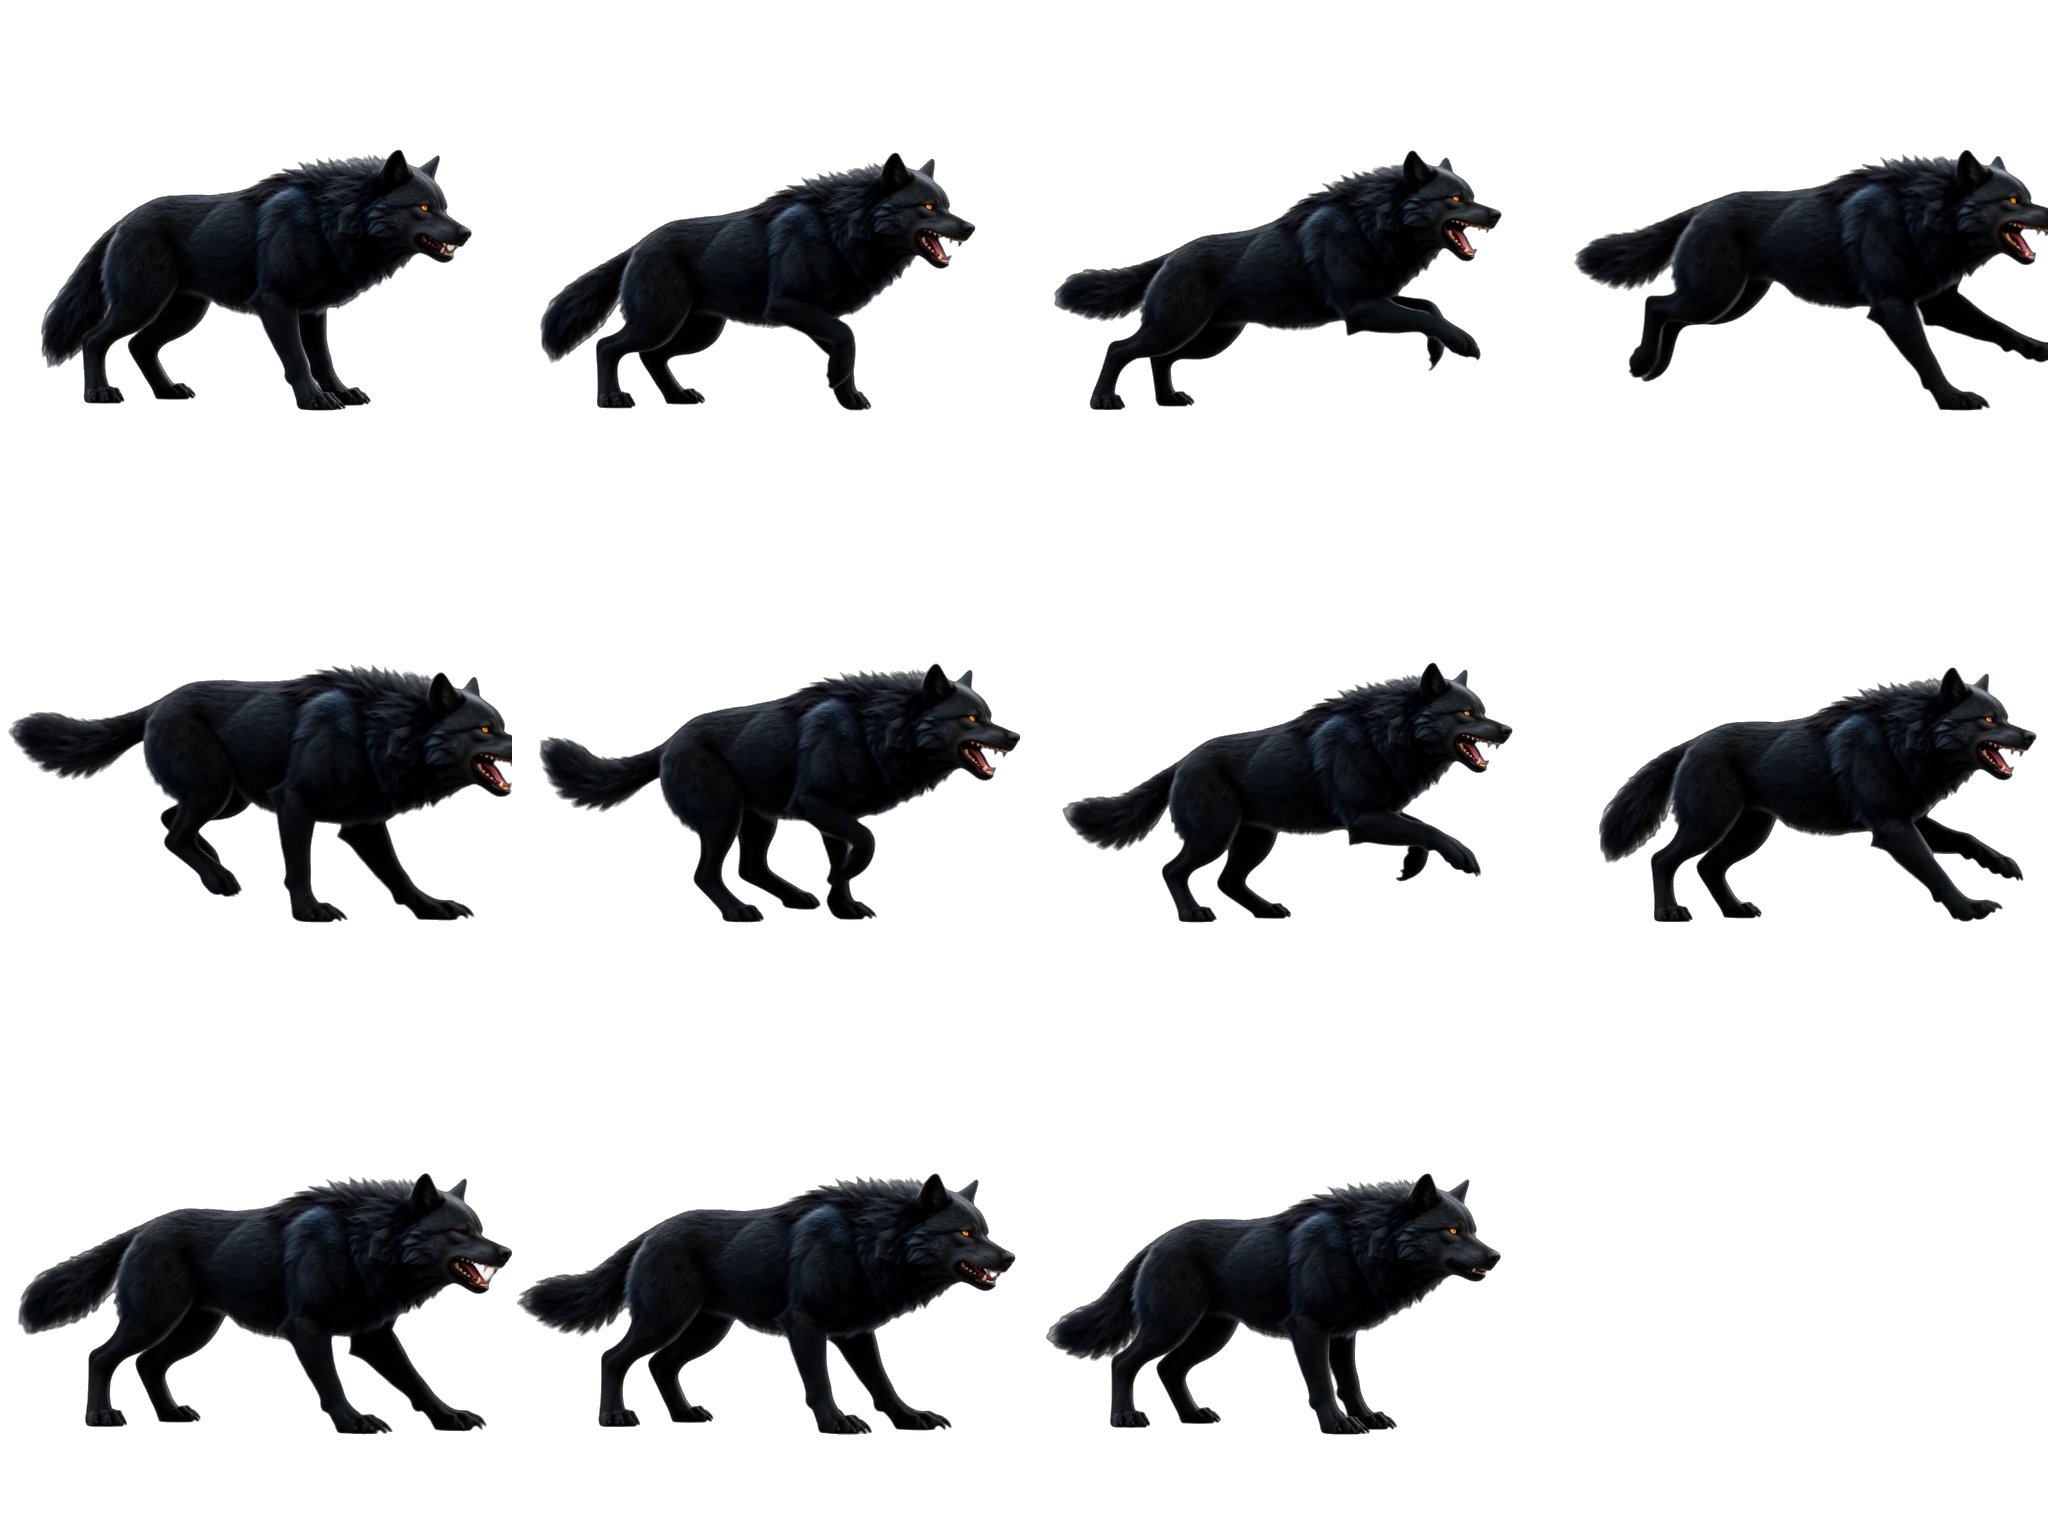
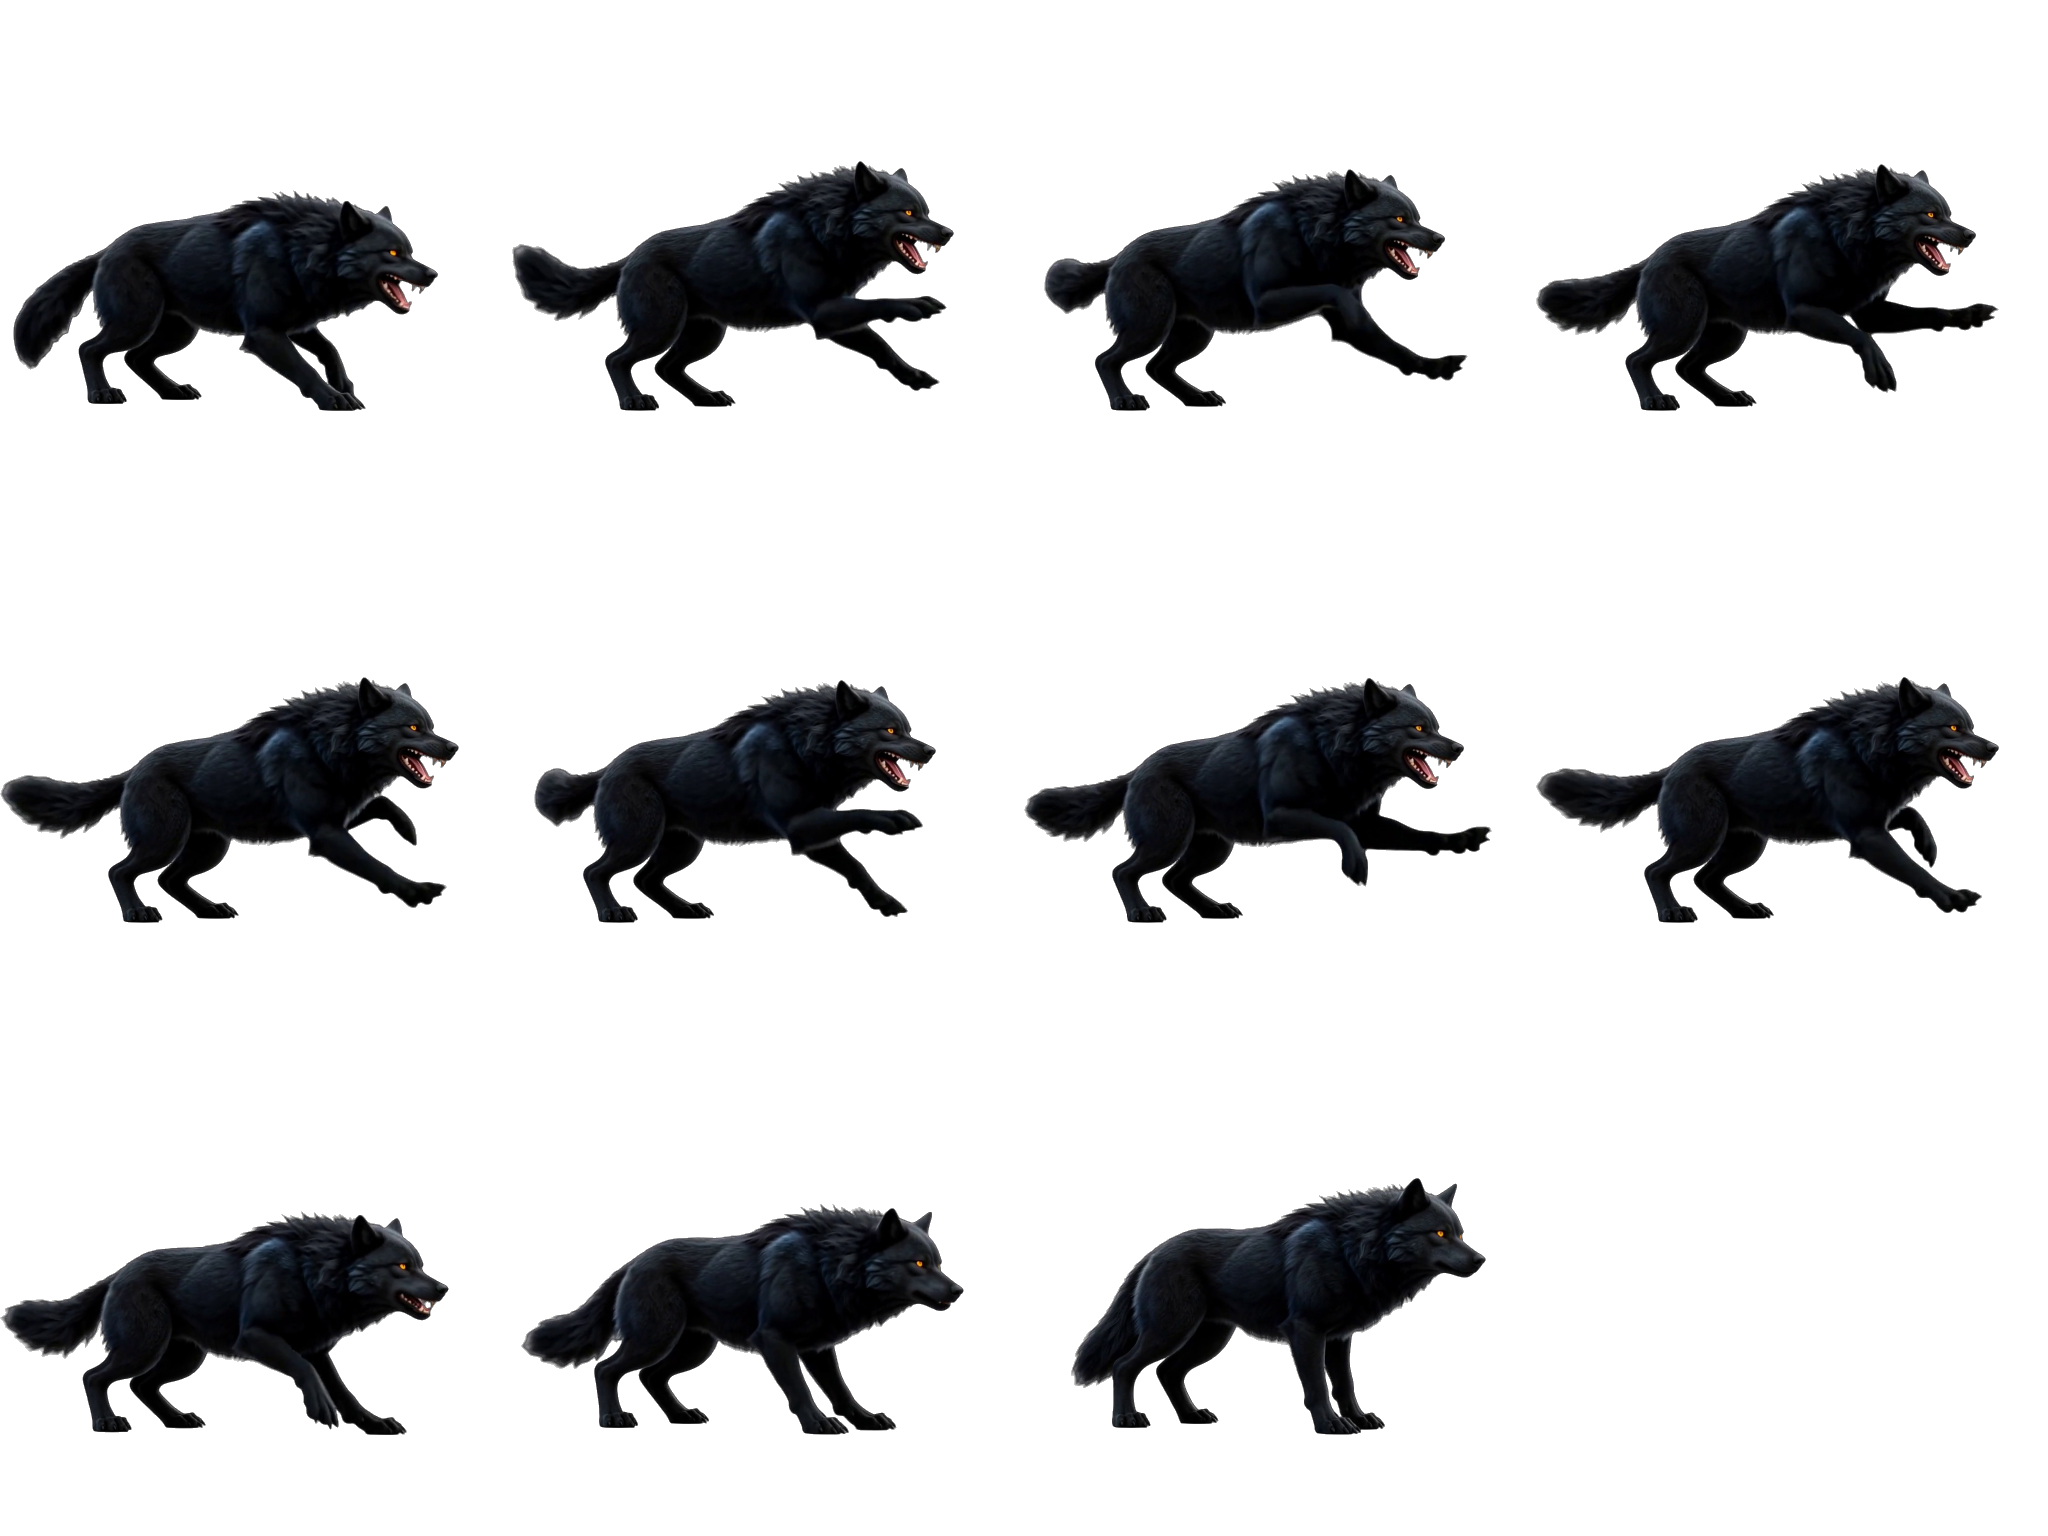
feat(enemy): 黑狼飞扑特效与命中调整——删残影加速度线条、命中改3秒致残
Condensed 4 adjacent commits from the original history:
- ca72dc79 feat(enemy): 黑狼飞扑特效与命中调整——删残影加速度线条、命中改3秒致残
- 7ab83c9e feat(enemy): 黑狼飞扑动画重制——强化前爪挥舞细节 + 游戏内时长调至约3秒
- fb3cbe67 feat(skills): 雷暴领域/贯穿雷枪图标 v2——FLUX.2 Dev + 紫水晶切割宝石背景 + 原风格主体（alpha剪影锁构图）+ 系列基准归一化
- 2e122143 docs(skill): 技能图标重出经验沉淀——Dev+alpha剪影锁原图主体/背景与主体分离描述/归一化后再交付/验收对照原图

diff --git a/src/entities/enemy-types.js b/src/entities/enemy-types.js
@@ -213,19 +213,20 @@ class BlackWolf extends Enemy {
                     this._endPounce();
                     return;
                 }
-                if (hitTarget.applyStun) {
-                    hitTarget.applyStun(this.config?.pounceStunMs ?? 2000);
+                // 命中不眩晕，改为 3 秒致残（减速 debuff）
+                if (hitTarget.applyCripple) {
+                    hitTarget.applyCripple(this.config?.pounceCrippleMs ?? 3000);
                     this._endPounce();
                     return;
                 }
             }
         }
 
-        // 飞扑残影
+        // 冲锋速度线条（色块链风格，参考 LightningBoltEffect；替代残影）
         this._pounceGhostTimer -= dt;
         if (this._pounceGhostTimer <= 0) {
-            this._spawnPounceGhost();
-            this._pounceGhostTimer = 60;
+            this._spawnSpeedLine();
+            this._pounceGhostTimer = 80;
         }
 
         this._pounceTimer -= dt;
@@ -354,24 +355,45 @@ class BlackWolf extends Enemy {
         return dist <= r + targetR;
     }
 
-    _spawnPounceGhost() {
-        const sprite = this._phaserSprite;
+    // 冲锋速度线条：狼身后沿反方向拖出短色块链（参考 LightningBoltEffect 的
+    // 圆块辉光风格——线条感强于纯粒子、柔于纯线条，折中方案）
+    _spawnSpeedLine() {
         const scene = window.__phaserScene;
-        if (!sprite || !scene) return;
-        const textureKey = this._getTextureKey();
-        if (!scene.textures.exists(textureKey)) return;
-        const frame = sprite.frame ? sprite.frame.name : 0;
-        const ghost = scene.add.sprite(this.x, this.y, textureKey, frame)
-            .setAlpha(0.5)
-            .setDisplaySize(sprite.displayWidth, sprite.displayHeight)
-            .setFlipX(sprite.flipX)
-            .setDepth((sprite.depth || 0) - 1);
-        scene.tweens.add({
-            targets: ghost,
-            alpha: 0,
-            duration: 250,
-            onComplete: () => { if (ghost && ghost.active) ghost.destroy(); }
-        });
+        if (!scene || !this._pounceDir) return;
+        const dirX = -this._pounceDir.x; // 反方向 = 狼身后
+        const dirY = -this._pounceDir.y;
+        const len = 55 + Math.random() * 35;
+        const perp = Math.random() < 0.5 ? -1 : 1; // 上下随机偏移，避免整齐呆板
+        const off = 6 + Math.random() * 10;
+        const sx = this.x + dirX * 25 + (-dirY * perp * off);
+        const sy = this.y + dirY * 25 + (dirX * perp * off);
+        const n = 6;
+        const life = { t: 0, max: 170 };
+        const g = scene.add.graphics();
+        g.setBlendMode('ADD');
+        const spriteDepth = this._phaserSprite ? this._phaserSprite.depth : 0;
+        g.setDepth(spriteDepth + 1);
+        if (scene.worldEffectsGroup) scene.worldEffectsGroup.add(g);
+        const onUpdate = () => {
+            life.t += 16;
+            const p = Math.max(0, 1 - life.t / life.max);
+            g.clear();
+            for (let i = 0; i < n; i++) {
+                const f = i / (n - 1);
+                const x = sx + dirX * len * f;
+                const y = sy + dirY * len * f;
+                const r = Math.max(1, (4.5 - 2 * f) * p);
+                g.fillStyle(0xffffff, 0.65 * p);
+                g.fillCircle(x, y, r + 2); // 外层辉光
+                g.fillStyle(0x9fd4ff, 0.85 * p);
+                g.fillCircle(x, y, r); // 内芯
+            }
+            if (life.t >= life.max) {
+                g.destroy();
+                scene.events.off('update', onUpdate);
+            }
+        };
+        scene.events.on('update', onUpdate);
     }
 
     _getTextureKey() {
